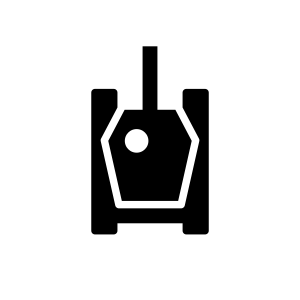
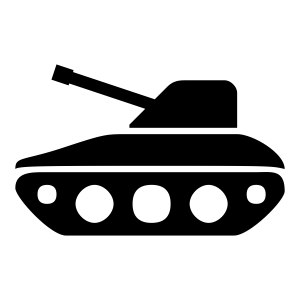
Render units only when using create() or calling startRender().

Changed region(s): [[0.03, 0.15, 0.96, 0.81]]

diff --git a/client/src/js/index.js b/client/src/js/index.js
@@ -1,6 +1,8 @@
 import { useStrict } from 'mobx'
 
 import Unit from 'Unit'
+import Cannon from 'Cannon'
+import Tank from 'Tank'
 
 useStrict(true)
 
@@ -9,18 +11,21 @@ const gameBox = document.querySelector("#display-box")
 gameBox.style.width = gameSize + 'px'
 gameBox.style.height = gameSize + 'px'
 
-const allies = [new Unit("Jasper"), new Unit("DMoney")]
+let placingTower = false
+const allies = [new Tank(), new Tank()]
 // const allies = []
 
 let enemiesInWave = 5
 const enemies = []
 const enemyDistance = Math.floor(gameSize / enemiesInWave)
 for (let i = 0; i < enemiesInWave; i++) {
-  let enemy = new Unit('Enemy ' + (i + 1))
+  let enemy = new Tank()
   enemy.jumpTo(gameSize, i * enemyDistance)
   enemy.moveTo(0, i * enemyDistance)
   enemies.push(enemy)
 }
+
+allies.concat(enemies).forEach((unit) => unit.startRender())
 
 allies.forEach((ally) => ally.moveTo(getRandomPosition(), getRandomPosition()))
 
@@ -50,20 +55,18 @@ restartMoveButton.addEventListener('click', function() {
 const placeTowerButton = document.querySelector("button#place-tower")
 placeTowerButton.addEventListener('click', function() {
   // make unplaced tower that follows cursor
+  placingTower = true
 })
 
-const tower = new Unit('tower', {
+const tower = Unit.create(Cannon, {
   temporary: true,
 })
 const bound = gameBox.getBoundingClientRect()
-let placingTower = true
 gameBox.addEventListener('mousemove', function(event) {
   if (placingTower) {
     // @TODO only render tower in grid positions
-    console.log(event);
     const actualX = event.pageX - tower.width / 2.0 - bound.left
     const actualY = event.pageY - tower.height / 2.0 - bound.top
-    // @FIXME ^^^ Not sure why I need to subtract bound.top if I'm getting the page y-value
     tower.jumpTo(actualX, actualY)
   }
 })

diff --git a/client/src/js/Unit.js b/client/src/js/Unit.js
@@ -10,7 +10,7 @@ const RENDER_UNITS = true
 
 let ID = 1
 
-export default class Unit {
+class Unit {
   // defaults (observables)
   @observable x = 0
   @observable y = 0
@@ -20,36 +20,31 @@ export default class Unit {
   @observable display = true
   @observable temporary = false
 
-  constructor(name, options) {
+  constructor(options) {
     options = options || {}
     this.id = ID
     ID += 1
-    this.name = name
     this.movementId = undefined
 
     // set defaults
     this.size = GRID_SIZE * 2 // @FIXME This should be set in each unit's class
     this.width = this.size // Should be using these instead of this.size!
     this.height = this.size // Should be using these instead of this.size!
+    this.name = 'Tank'
+
 
     // override defaults
     for (let key in options) {
       if (options.hasOwnProperty(key)) {
-        console.log(key);
         this[key] = options[key]
       }
     }
 
-    if (RENDER_UNITS) {
-      addRenderTools(this) // adds the render methods to this class
-      this.startRender()
-    }
+    addRenderTools(this) // adds the render methods to this class
   }
 
   @action hide() {
     this.display = false
-    console.log(this.display);
-    console.log(this.display ? 'initial' : 'none');
   }
 
   @action show() {
@@ -105,3 +100,11 @@ export default class Unit {
   }
 
 }
+
+Unit.create = function(UnitClass, options) {
+  const unit = new UnitClass(options)
+  unit.startRender()
+  return unit
+}
+
+export default Unit

diff --git a/client/src/js/RenderedUnit.js b/client/src/js/RenderedUnit.js
@@ -12,12 +12,14 @@ export default function addRenderTools(unit) {
     // element.innerHTML = unit.name
     element.id = "unit-" + unit.id
     element.style.position = 'absolute'
-    element.src = "../static/assets/tank_side.png"
+    element.src = `../static/assets/${unit.name.toLowerCase()}.png`
     element.style.width = this.size + 'px'
     element.style.height = this.size + 'px'
+
     if (unit.temporary) {
       element.classList.add('disabled')
     }
+
     const gameBox = document.querySelector("#display-box")
     gameBox.append(element)
     var disposer = autorun(() => {

diff --git a/client/src/js/Cannon.js b/client/src/js/Cannon.js
@@ -1,0 +1,10 @@
+
+import Unit from 'Unit'
+
+export default class Cannon extends Unit {
+  constructor(options) {
+    super(options)
+    this.name = 'Cannon'
+    console.log('MAKING CANNON');
+  }
+}

diff --git a/client/src/js/Tank.js b/client/src/js/Tank.js
@@ -1,0 +1,9 @@
+
+import Unit from 'Unit'
+
+export default class Tank extends Unit {
+  constructor(options) {
+    super(options)
+    this.name = 'Tank'
+  }
+}
